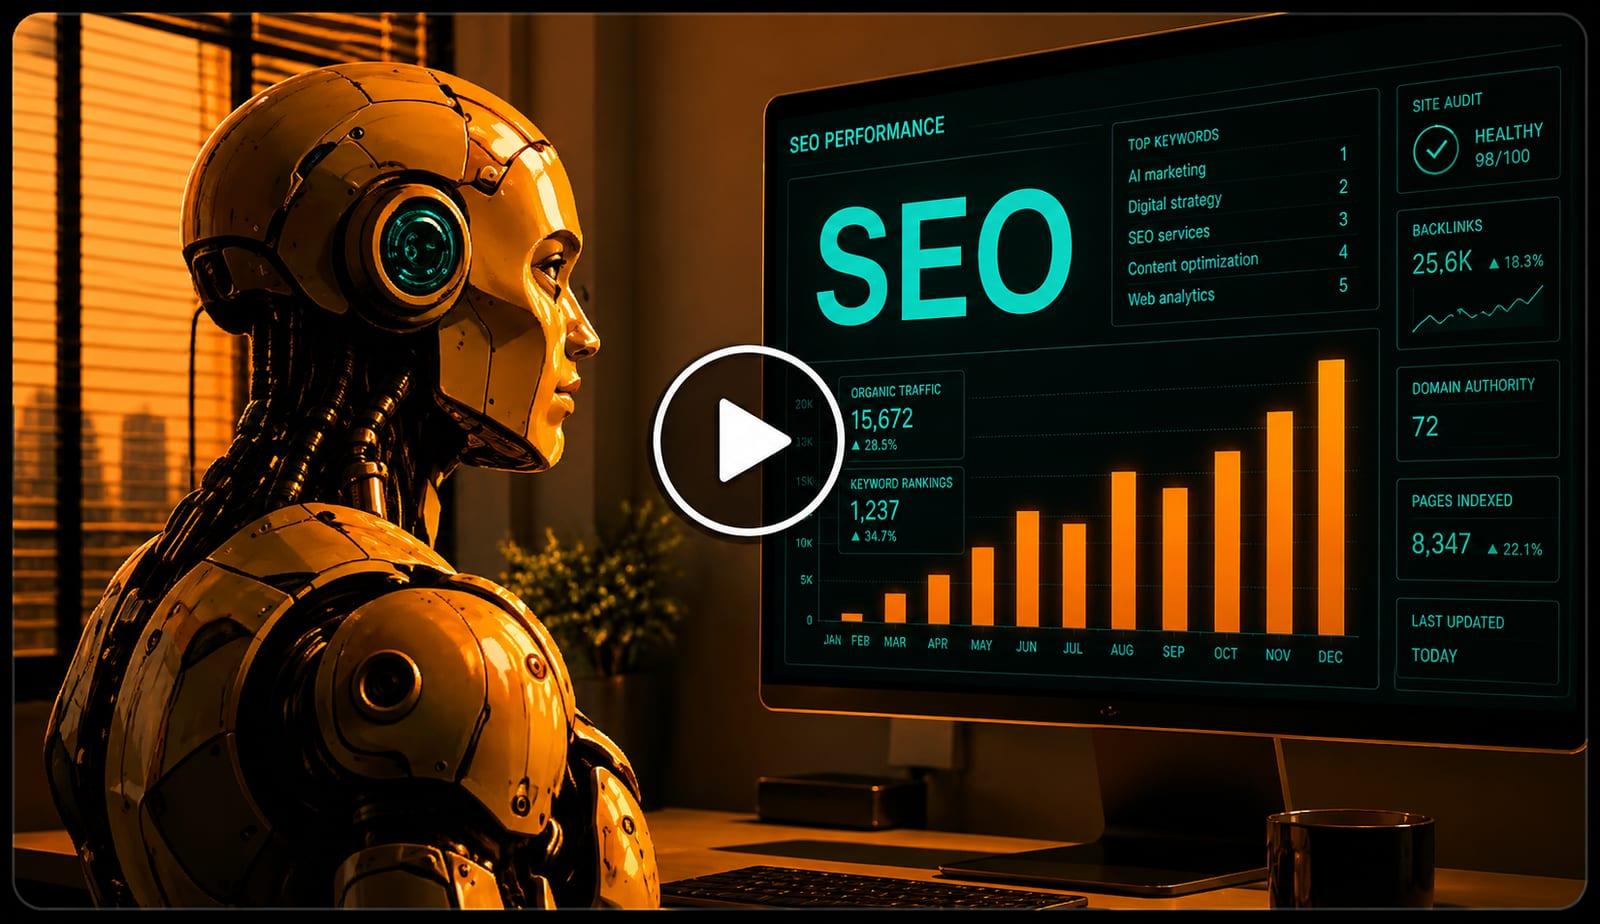
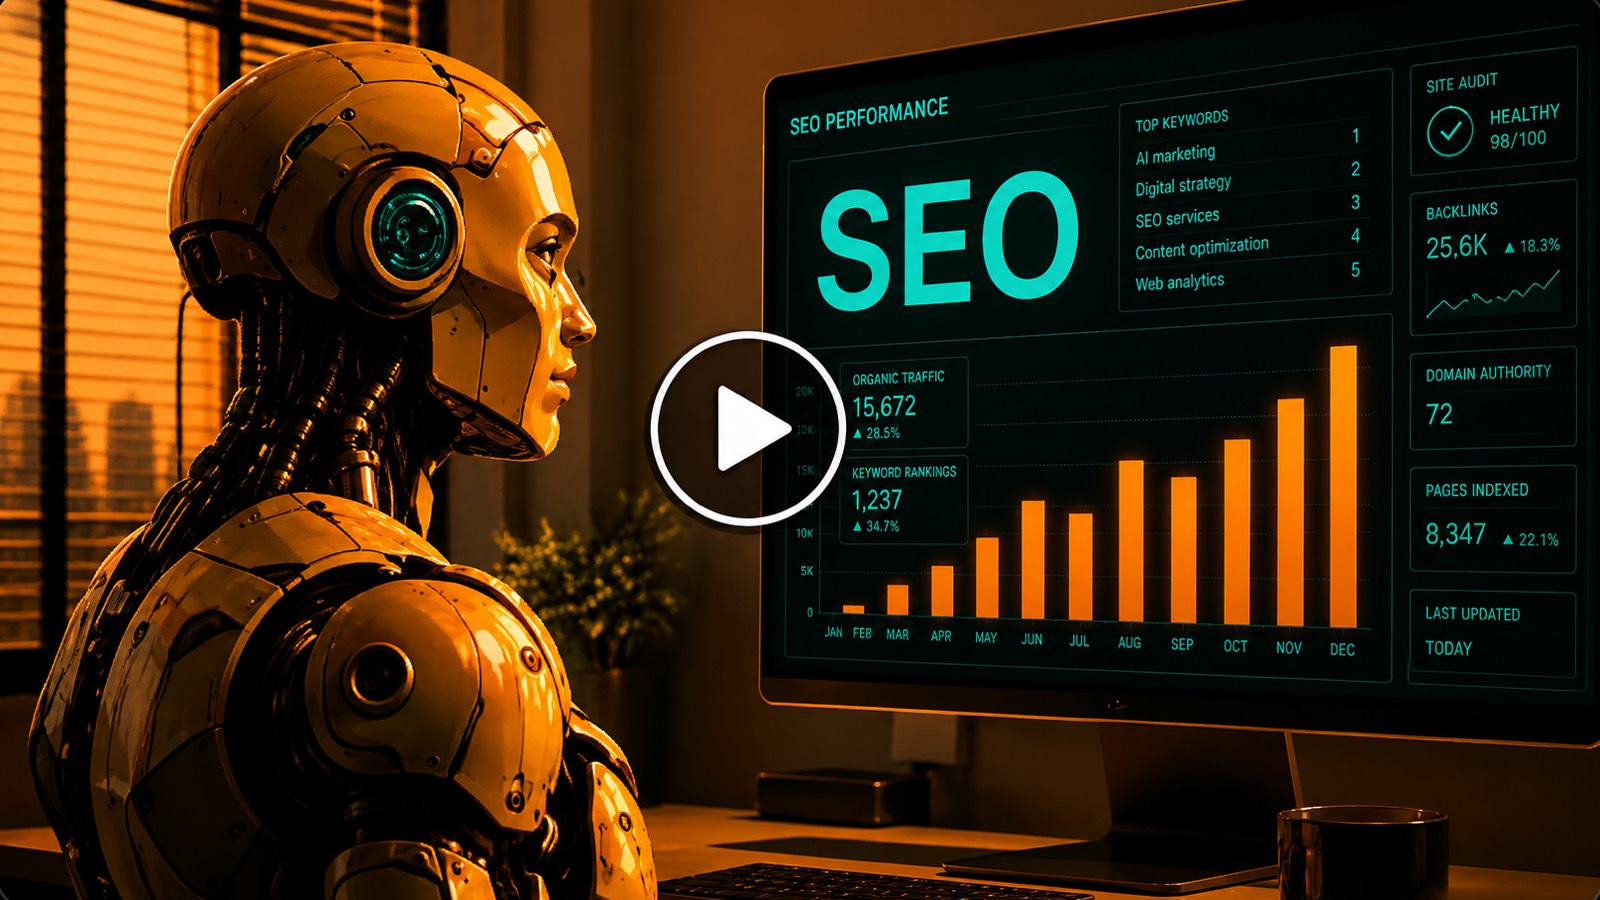
feat: new robot head, copyright text, larger portraits, 16:9 thumbnails
- Wordmark: inline robot-head.svg (drawing unchanged; C2PA metadata
  omitted), mouth gradient id from useId so nav and hero don't collide.
  Head body is one measured cap height (0.705em) and the row aligns on
  the baseline, so it spans cap line to baseline exactly at every size.
- Footer: copyright line is now "© {year} All rights reserved."
- Hosts: portraits 132px -> 158px; hosts stack below 1024px so each bio
  keeps a readable column.
- Webinars: each image sits in a fixed 16/9 frame with object-cover.
  The layout boxes were already identical; the visible mismatch came
  from dark rounded borders baked into the artwork (12-21px) that
  object-cover cropped differently per aspect ratio (1600x924/836/881).
  Thumbnails re-cropped from the source PNGs inside those borders to
  exactly 1600x900.

Claude-Session: https://claude.ai/code/session_01LdL1xVEYzTTxnNgXtob14b

diff --git a/src/components/wordmark.tsx b/src/components/wordmark.tsx
@@ -1,8 +1,10 @@
+import { useId } from "react";
+
 type WordmarkSize = "hero" | "nav";
 
 /**
- * Type sizes are chosen by cap height, not font size: Inter's cap height is
- * ~0.727em, so 28px ≈ 20px caps on desktop and 25px ≈ 18px on mobile.
+ * Type sizes are chosen by cap height, not font size: bold Inter's cap height
+ * measures 0.705em, so 28px ≈ 20px caps on desktop and 25px ≈ 18px on mobile.
  */
 const sizeClass: Record<WordmarkSize, string> = {
   hero: "text-[40px] md:text-[56px] lg:text-[64px]",
@@ -10,39 +12,52 @@ const sizeClass: Record<WordmarkSize, string> = {
 };
 
 /**
- * The robot head that stands in for the second O.
+ * The robot head that stands in for the second O — the artwork from
+ * robot-head.svg, drawn in a 100×170 viewBox with the head body spanning
+ * y 44–168 (124 units).
  *
- * Every dimension is expressed in the viewBox, and the viewBox is sized in em,
- * so the head scales with the surrounding type instead of drifting — the
- * antenna stem in particular used to be a fixed 2px, which read as hairline at
- * hero size and as a slab at nav size.
+ * The wrapper is one cap height tall (0.705em, measured from the rendered R —
+ * Inter's nominal 0.727em overshoots) and the row aligns on the baseline. The
+ * wrapper has no text, so its baseline is synthesised from its bottom edge: the
+ * head body stands on the letters' baseline and reaches their cap line at any
+ * size. (Centring drifted by up to 1.4px, because Chrome rounds the font's
+ * ascent and descent to whole pixels differently at each size.) The SVG is
+ * scaled so those 124 units fill the wrapper, and shifted up by the 44 units
+ * above the head so the antenna overhangs the cap line. Everything is in em, so
+ * nav and hero scale identically.
  *
- * The wrapper is 0.72em tall so the parent's `items-center` aligns it exactly
- * like a letter; the SVG is pinned to the wrapper's bottom and allowed to
- * overflow upward by 0.22em for the antenna, which keeps the head box sitting
- * on the same baseline as R and BOTS at any size.
- *
- * The head and antenna fill with currentColor so they always match the
- * letters; the face is cut in solid black.
+ * Head and antenna fill with currentColor to match the letters. The mouth
+ * gradient's id comes from useId so the nav and hero instances don't collide.
  */
 function RobotHead() {
+  const mouthGradient = useId();
+
   return (
-    <span className="relative mx-[0.04em] inline-block h-[0.72em] w-[0.72em] flex-none">
+    <span className="relative inline-block h-[0.705em] w-[calc(0.705em*100/124)] flex-none">
       <svg
-        viewBox="0 0 72 94"
-        className="absolute bottom-0 left-0 h-[0.94em] w-full overflow-visible"
-        fill="currentColor"
+        viewBox="0 0 100 170"
+        className="absolute left-0 top-[calc(0.705em*-44/124)] h-[calc(0.705em*170/124)] w-full overflow-visible"
         aria-hidden
       >
+        <defs>
+          <linearGradient id={mouthGradient} x1="0" y1="0" x2="1" y2="0">
+            <stop offset="0" stopColor="#F2681C" />
+            <stop offset="1" stopColor="#3DD9A9" />
+          </linearGradient>
+        </defs>
         {/* antenna */}
-        <circle cx="36" cy="7" r="7" />
-        <rect x="34" y="12" width="4" height="24" />
-        {/* head */}
-        <rect x="0" y="34" width="72" height="60" rx="14" />
-        {/* face */}
-        <circle cx="19.5" cy="59" r="8" fill="#000" />
-        <circle cx="52.5" cy="59" r="8" fill="#000" />
-        <rect x="26" y="76" width="20" height="4.5" rx="2.25" fill="#000" />
+        <circle cx="50" cy="12" r="11" fill="currentColor" />
+        <rect x="47" y="20" width="6" height="30" fill="currentColor" />
+        {/* head: tall rounded capsule, flatter top, rounder bottom */}
+        <path
+          d="M8 88 C8 60 24 44 50 44 C76 44 92 60 92 88 L92 128 C92 152 72 168 50 168 C28 168 8 152 8 128 Z"
+          fill="currentColor"
+        />
+        {/* eyes */}
+        <circle cx="33" cy="98" r="12" fill="#0F2B27" />
+        <circle cx="67" cy="98" r="12" fill="#0F2B27" />
+        {/* mouth */}
+        <rect x="38" y="132" width="24" height="6" rx="3" fill={`url(#${mouthGradient})`} />
       </svg>
     </span>
   );
@@ -58,7 +73,7 @@ export function Wordmark({ size = "hero" }: { size?: WordmarkSize }) {
       className={`inline-flex flex-wrap items-center gap-x-[0.24em] font-bold uppercase leading-[0.94] tracking-[-0.02em] text-white ${sizeClass[size]}`}
     >
       <span className="whitespace-nowrap">PR FOR</span>
-      <span className="inline-flex items-center whitespace-nowrap">
+      <span className="inline-flex items-baseline whitespace-nowrap">
         <span>R</span>
         <RobotHead />
         <span>BOTS</span>

diff --git a/src/app/page.tsx b/src/app/page.tsx
@@ -201,15 +201,20 @@ export default function Home() {
                   target="_blank"
                   rel="noopener noreferrer"
                   aria-label={`Watch: ${video.title}`}
-                  className="group relative block aspect-video w-full overflow-hidden rounded-card border border-hairline"
+                  className="group block w-full overflow-hidden rounded-card border border-hairline"
                 >
-                  <Image
-                    src={video.thumbnail}
-                    alt={video.title}
-                    fill
-                    sizes="(max-width: 768px) 100vw, 33vw"
-                    className="object-cover transition-transform duration-300 group-hover:scale-[1.03]"
-                  />
+                  {/* Fixed 16:9 frame. The sources are 1600×924, ×836 and ×881;
+                      object-cover crops each into this box, so no artwork's
+                      intrinsic size can reach the layout. */}
+                  <div className="relative aspect-video w-full overflow-hidden">
+                    <Image
+                      src={video.thumbnail}
+                      alt={video.title}
+                      fill
+                      sizes="(max-width: 768px) 100vw, 33vw"
+                      className="object-cover transition-transform duration-300 group-hover:scale-[1.03]"
+                    />
+                  </div>
                 </a>
                 <h3 className="m-0 text-[17px] font-bold leading-[1.35] text-white text-pretty">
                   {video.title}
@@ -233,16 +238,18 @@ export default function Home() {
         {/* ----------------------------------------------------- Your hosts */}
         <section className={`${sectionCard} flex flex-col gap-7`}>
           <h2 className={sectionHeading}>Meet Your Hosts</h2>
-          <div className="grid gap-8 md:grid-cols-2 md:gap-10">
+          {/* Side by side from 1024px: below that, two 158px portraits leave
+              each bio only ~120px wide, so the hosts stack instead. */}
+          <div className="grid gap-8 lg:grid-cols-2 lg:gap-10">
             <div className="flex items-start gap-5">
-              <div className="host-portrait h-[132px] w-[132px] flex-none">
+              <div className="host-portrait h-[158px] w-[158px] flex-none">
                 {/* Source is slightly taller than wide; 20% takes up the small
                     vertical slack so his face sits in the middle of the circle. */}
                 <Image
                   src="/images/john-rose.jpg"
                   alt="John Rose"
                   fill
-                  sizes="132px"
+                  sizes="158px"
                   className="object-cover object-[50%_20%]"
                 />
               </div>
@@ -268,12 +275,12 @@ export default function Home() {
             </div>
 
             <div className="flex items-start gap-5">
-              <div className="host-portrait h-[132px] w-[132px] flex-none">
+              <div className="host-portrait h-[158px] w-[158px] flex-none">
                 <Image
                   src="/images/samson-ogbu.jpg"
                   alt="Samson Ogbu"
                   fill
-                  sizes="132px"
+                  sizes="158px"
                   className="object-cover"
                 />
               </div>
@@ -350,7 +357,7 @@ export default function Home() {
           </div>
           <div className="flex flex-col items-center gap-1.5 text-center">
             <p className="m-0 text-[12px] text-[#888]">
-              &copy; {year} Rose Creative Marketing and Fitch Technologies. All rights reserved.
+              &copy; {year} All rights reserved.
             </p>
             <a
               href="https://fitchtechnologies.com/"
